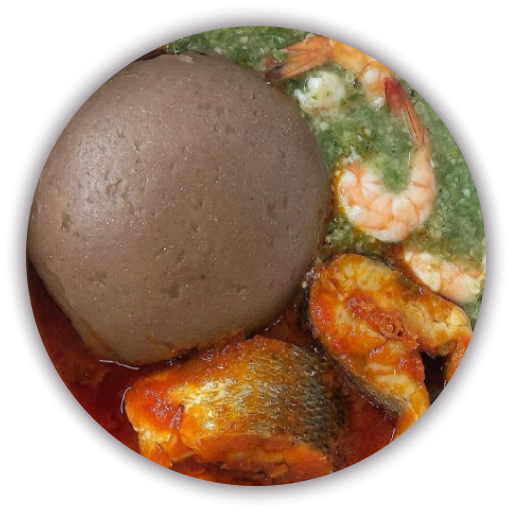
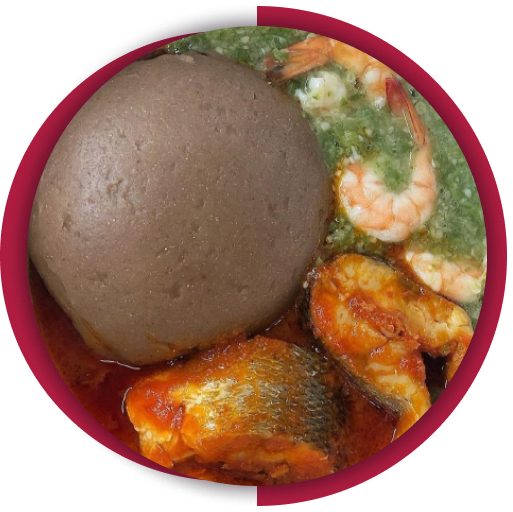
replace img

diff --git a/src/components/BannerSlider/BannerSlider.scss b/src/components/BannerSlider/BannerSlider.scss
@@ -13,21 +13,6 @@
     }
   }
 
-  &__circle--first {
-    position: absolute;
-    top: 50%;
-    left: 50%;
-    background-color: var(--color-accent);
-    z-index: -1;
-  }
-
-  &__circle--first {
-    transform: translate(-100%, -50%);
-    height: 450px;
-    width: 250px;
-    border-radius: 220px 0 0 220px;
-  }
-
   img {
     display: block;
     max-width: 100%;

diff --git a/src/components/BannerSlider/BannerSlider.jsx b/src/components/BannerSlider/BannerSlider.jsx
@@ -6,9 +6,7 @@ export const BannerSlider = ({ images }) => {
   return (
     <div className="slider">
       <div className="slider__container">
-        {/* <div className="slider__circle--first" /> */}
         <img src={slider1} alt="" />
-        {/* <div className="slider__circle--second" /> */}
       </div>
     </div>
   );

diff --git a/src/index.css b/src/index.css
@@ -9,8 +9,6 @@
   --color-black: #2d2d2d;
   --color-gray: #858585;
   --color-white: #ffffff;
-
-  /* overflow-x: hidden; */
 }
 
 * {
